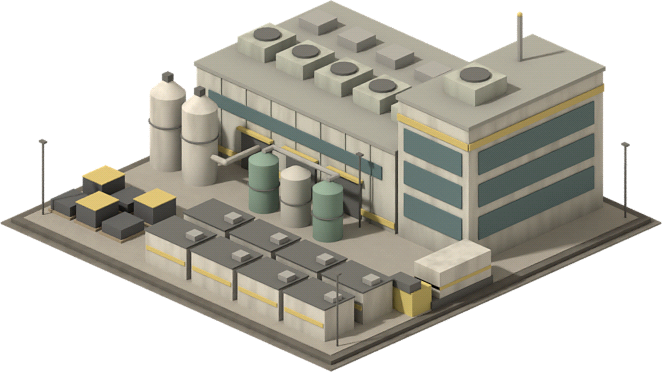
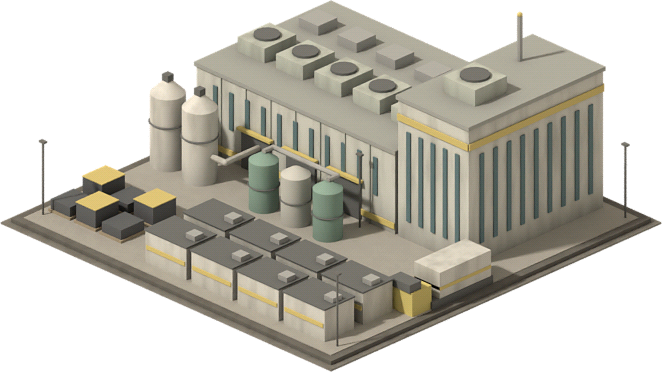
電池工場の窓を細長く・タイヤ工場と電池工場の増設モジュールの絵を追加

Changed region(s): [[0.3021, 0.2366, 0.9063, 0.6505]]

diff --git a/data/sprites_bl.js b/data/sprites_bl.js
@@ -3828,5 +3828,89 @@ window.GAME_DATA.spritesBL = {
     "fd": 5
    }
   ]
+ },
+ "module_tireFactory": {
+  "fw": 3,
+  "fd": 3,
+  "r": [
+   {
+    "file": "../assets/bl/module_tireFactory_r0.png",
+    "w": 203.0,
+    "h": 124.5,
+    "ax": 101.5,
+    "ay": 76.1,
+    "fw": 3,
+    "fd": 3
+   },
+   {
+    "file": "../assets/bl/module_tireFactory_r1.png",
+    "w": 203.0,
+    "h": 107.5,
+    "ax": 101.5,
+    "ay": 59.1,
+    "fw": 3,
+    "fd": 3
+   },
+   {
+    "file": "../assets/bl/module_tireFactory_r2.png",
+    "w": 203.0,
+    "h": 124.0,
+    "ax": 101.5,
+    "ay": 75.6,
+    "fw": 3,
+    "fd": 3
+   },
+   {
+    "file": "../assets/bl/module_tireFactory_r3.png",
+    "w": 203.0,
+    "h": 124.5,
+    "ax": 101.5,
+    "ay": 76.1,
+    "fw": 3,
+    "fd": 3
+   }
+  ]
+ },
+ "module_batteryFactory": {
+  "fw": 2,
+  "fd": 3,
+  "r": [
+   {
+    "file": "../assets/bl/module_batteryFactory_r0.png",
+    "w": 171.0,
+    "h": 114.5,
+    "ax": 85.5,
+    "ay": 73.1,
+    "fw": 2,
+    "fd": 3
+   },
+   {
+    "file": "../assets/bl/module_batteryFactory_r1.png",
+    "w": 171.0,
+    "h": 97.0,
+    "ax": 85.5,
+    "ay": 55.6,
+    "fw": 3,
+    "fd": 2
+   },
+   {
+    "file": "../assets/bl/module_batteryFactory_r2.png",
+    "w": 171.0,
+    "h": 110.0,
+    "ax": 85.5,
+    "ay": 68.6,
+    "fw": 2,
+    "fd": 3
+   },
+   {
+    "file": "../assets/bl/module_batteryFactory_r3.png",
+    "w": 171.0,
+    "h": 114.5,
+    "ax": 85.5,
+    "ay": 73.1,
+    "fw": 3,
+    "fd": 2
+   }
+  ]
  }
 };
